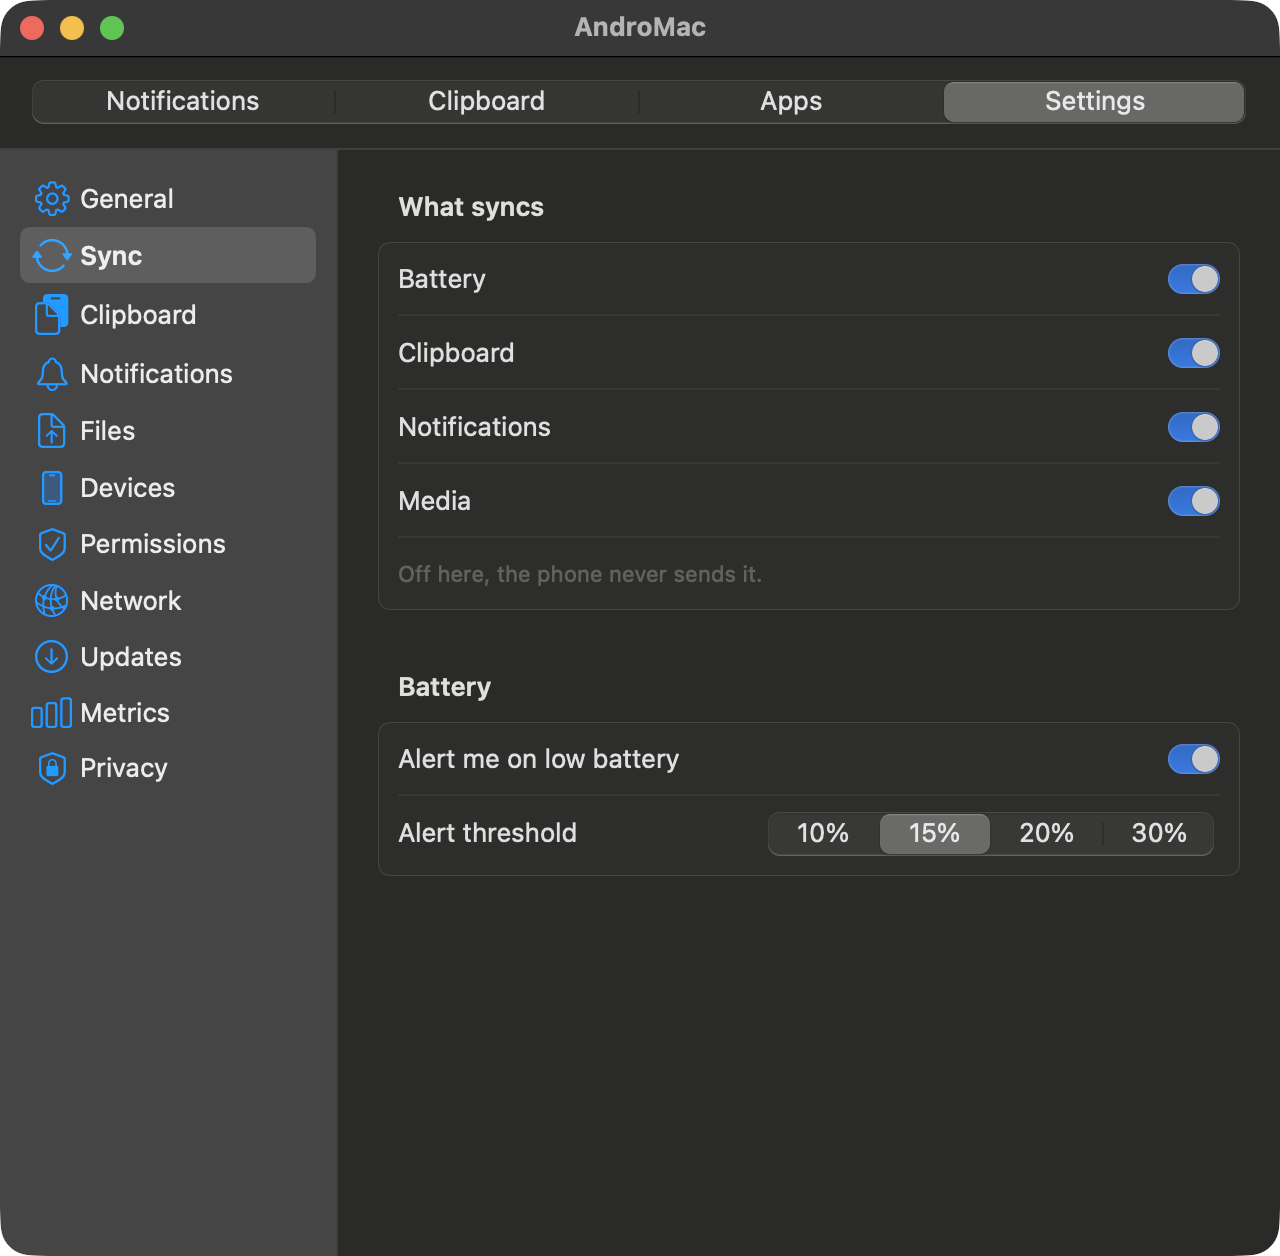
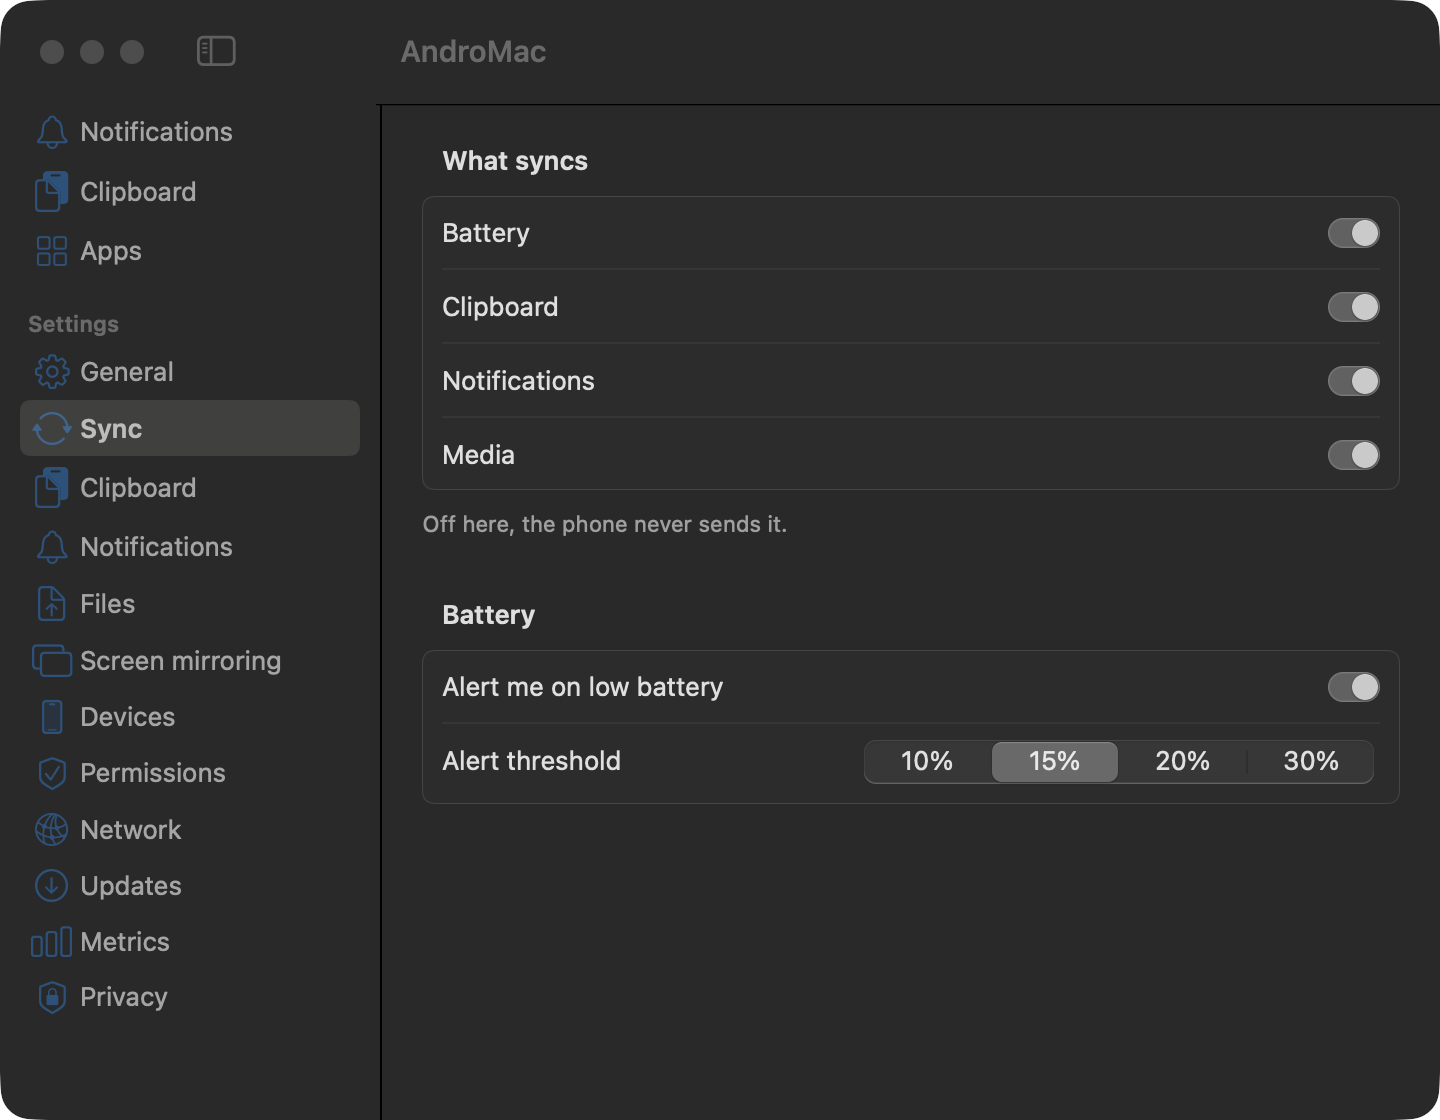
docs: new screenshots, guide and changelog for the UI changes

diff --git a/docs/GUIDE.tr.md b/docs/GUIDE.tr.md
@@ -200,41 +200,51 @@ başka bir yol da yok.
 
 ## Ayarlar
 
-Telefonun ana ekranı sade kalır: bağlantı durumu, **Pil durumu**, **Pano**, **Bildirimler** ve
-**Medya** için dört senkronizasyon anahtarı, **İzinler** kartı, iki ayrıntı satırı ve en altta
-sürüm. İki uygulama da sürümü aynı biçimde yazar: `1.0.0 (12 · abc1234)`, yani sürüm, derleme
-numarası ve derlendiği commit. Hata bildirirken bu satırın tamamını yaz. Gerisi bir alt seviyede.
+Telefonun ana ekranı sade kalır. Durum kartı Mac'in adını söyler: "… ile bağlı", "… ile bağlanılıyor"
+ya da eşleştirilmemişken ağda gördüğü Mac'ler. Altında **Pil durumu**, **Pano**, **Bildirimler**
+ve **Medya** için dört eşitleme anahtarı ve pano geçmişi durur. Bağlantı rehberi yalnızca telefon
+eşleşene kadar görünür; sonra üst çubuktaki **ⓘ** düğmesi onu canlı tanıyla birlikte açar. İzinler
+kartı yalnızca zorunlu bir izin eksikken çıkar. Geri kalan her şey üst çubuktaki **Ayarlar**
+düğmesinin arkasında.
+
+İki uygulama da sürümü aynı biçimde yazar: `1.1.0 (12 · abc1234)`, yani sürüm, derleme numarası ve
+derlendiği commit. Telefonda Ayarlar → Hakkında'da durur. Hata bildirirken bu satırın tamamını yaz.
 
 | Ekran | İçinde ne var |
 |---|---|
-| İzinler | Altı iznin tamamı, "Verildi" ya da "Verilmedi" durumu ve Zorunlu, Önerilir ya da İsteğe bağlı notuyla. Ana ekrandaki İzinler kartının başlığından açılır. |
+| Ayarlar | Bağlantı, Bildirimler, Pano, Dosya aktarımı, İzinler, Dil, Güncellemeler ve Hakkında; her biri tek satırlık bir özetle. |
+| Pano geçmişi | Mac'e giden ya da Mac'ten gelen son 20 metin, en yenisi üstte. Dokununca panoya alınır, gönder düğmesi yeniden gönderir. Yalnızca bellekte tutulur, depolamaya hiç yazılmaz; hassas kayıtlar tutulmaz. |
+| İzinler | Altı iznin tamamı, "Verildi" ya da "Verilmedi" durumu ve Zorunlu, Önerilir ya da İsteğe bağlı notuyla. Ayarlar'dan açılır. |
 | Bağlantı | Durum, Mac'in adı ve son adresi, **Otomatik yeniden bağlan**, **Şimdi bağlan** ve **Bu Mac'i unut**. |
 | Bildirim ayarları | Neyin ayarlı olduğunu özetleyen **Uygulama filtresi**, **Sessiz bildirimler** ve **Sadece telefon kilitliyken**. Her zaman elenenleri de listeler. |
 | Uygulama filtresi | Telefonun gördüğü her uygulama için üç kademeli seçici; Bildirim ayarları'ndan açılır. |
 | Pano ayarları | Gelen: **Panoya otomatik yaz**, **Bildirim göster**. Giden: **Hassas içeriği gönderme**. Bir de **Panoyu Mac'e gönder**. |
-| Bağlantı yardımı | Canlı tanı, sık karşılaşılan sorunlar ve işin nasıl yürüdüğü. Eşleştirme rehberindeki **Bağlanamıyorum**'dan açılır. |
+| Bağlantı yardımı | Canlı tanı, sık karşılaşılan sorunlar ve işin nasıl yürüdüğü. **ⓘ** düğmesinden ya da eşleştirme rehberindeki **Bağlanamıyorum**'dan açılır. |
 | Güncellemeler | Günlük güncelleme denetimi: anahtar, **Şimdi denetle** ve yeni paketi indirip doğrulayarak kuran **Kur** düğmesi. |
 | Dosyalar | **Dosya al** ve **Dosyaları otomatik kabul et**. Gelen dosyalar İndirilenler'e iner; gönderme herhangi bir uygulamanın paylaşım menüsünden yapılır. |
 | Dil | Android'in uygulama başına dil seçicisini açar; İngilizce ve Türkçe sunar. |
 
-Mac'te menü çubuğu paneli göz atmak içindir. En üstte cihaz kartı durur. Birden fazla telefon
-eşliyse kart onları Finder sekmeleri gibi üstte sekmeler hâlinde gösterir; bir sekmeye tıklamak
-hangi telefonun ayrıntılarının, denetimlerinin ve pilinin gösterildiğini değiştirir. Tek telefonda
-sekme yoktur. Kart, seçili telefonun çalan parçasını, ses düzeyi sürgüsünü ve zil modu
-düğmelerini, pano anahtarını, çaldırma düğmesini, test bildirimi düğmesini ve "Bağlantıyı kes"i
-taşır. Altında pil, sonra son pano kaydı, iki yönden birinde dosya giderken bir ilerleme satırı ve
-en son dört bildirim gelir. Durum satırı yalnızca hiç eşleştirme yokken ya da dinleyici kapalıyken
-en üstte çıkar. AndroMac için macOS bildirimleri kapalıysa panel tek satırlık bir uyarı ve ilgili
-Sistem Ayarları bölmesini açan bir düğme gösterir. Panelin üstüne bırakılan dosyalar gönderilir.
-Menü çubuğu simgesine sağ tıklamak AndroMac'i aç, Ayarlar ve Çık menüsünü açar.
-Neyin eşitleneceği bir kez Ayarlar'da kararlaştırılır; ayrıntı pencerede.
+Mac'te menü çubuğu paneli göz atmak içindir. Birden fazla telefon eşliyse üstteki sekmeler
+aralarında geçiş yapar. Telefonun kartı adını ve durumunu, tek bir pil satırını, çalan parçayı, zil
+modu ile ses düzeyini tek satırda gösterir. Altında tek sıra düğme var: telefonu çaldır, test
+bildirimi gönder, ekranı yansıt ve **Panomu buraya gönder**, **Cihaz ayarları…** ile **Bağlantıyı
+kes**'i taşıyan bir **⋯** menüsü. Telefonun adına tıklamak ayarlarını açar. Sonra son pano kaydı
+gelir; yanındaki düğmeler telefondan panoyu ister, Mac'inkini gönderir ya da dosya gönderir.
+Üzerine gelince metnin tamamı görünür, ⌘C kopyalar. Paneli en son dört bildirim kapatır. Dosya
+giderken bir ilerleme satırı, yalnızca hiç eşleştirme yokken ya da dinleyici kapalıyken bir durum
+satırı, AndroMac için macOS bildirimleri kapalıyken de tek satırlık bir uyarı çıkar. Panelin
+üstüne bırakılan dosyalar gönderilir. ⌘, Ayarlar'ı açar; menü çubuğu simgesine sağ tıklamak
+AndroMac'i aç, Ayarlar ve Çık menüsünü açar.
 
-| Sekme | İçinde ne var |
+Pencerenin tek bir kenar çubuğu var: üstte **Bildirimler**, **Pano** ve **Uygulamalar**, altında
+bütün ayar bölümleri.
+
+| Sayfa | İçinde ne var |
 |---|---|
 | Bildirimler | Geçmiş; arama ve temizleme düğmesi. |
 | Pano | Geçmiş; arama, tıklayınca panoya alma, sağ tıkla geri gönderme ya da silme. |
 | Uygulamalar | Telefondaki her uygulama için kademe seçici. |
-| Ayarlar | Kenar çubuğu düzeni: solda bölüm listesi, sağda seçili bölümün seçenekleri. Bölümler sırasıyla Genel, Eşitleme, Pano, Bildirimler, Dosyalar, Ekran yansıtma, Cihazlar, İzinler, Ağ, Güncellemeler, Ölçümler ve Gizlilik. |
+| Ayarlar | Genel, Eşitleme, Pano, Bildirimler, Dosyalar, Ekran yansıtma, Cihazlar, İzinler, Ağ, Güncellemeler, Ölçümler ve Gizlilik. |
 
 Ayarlar → Genel'de **Oturum açınca başlat**, **Menü çubuğunda pil yüzdesi** ve Sistem, İngilizce,
 Türkçe seçenekli bir **Dil** seçici var. Dil açılışta okunduğu için değiştirince bir "Yeniden
@@ -444,7 +454,7 @@ göstermeli. Belirgin biçimde fazlası, kurallardan birinin çiğnendiği anlam
 <td align="center"><img src="images/android-home.png" alt="Android ana ekranı" width="230"></td>
 <td align="center"><img src="images/android-home-dark.png" alt="Android ana ekranı, koyu tema" width="230"></td>
 <td align="center"><img src="images/android-permissions.png" alt="Android'de İzinler ekranı" width="230"></td>
-<td align="center"><img src="images/android-connection.png" alt="Android'de Bağlantı ekranı" width="230"></td>
+<td align="center"><img src="images/android-settings.png" alt="Android'de Ayarlar" width="230"></td>
 </tr>
 <tr>
 <td colspan="2" align="center"><img src="images/android-pairing.png" alt="Android'de eşleştirme kodu" width="230"></td>
@@ -454,13 +464,10 @@ göstermeli. Belirgin biçimde fazlası, kurallardan birinin çiğnendiği anlam
 <td colspan="4" align="center"><img src="images/macos-window.png" alt="macOS'ta AndroMac ana penceresi" width="640"></td>
 </tr>
 <tr>
-<td colspan="4" align="center"><img src="images/macos-settings.png" alt="macOS'ta Ayarlar, Genel" width="640"></td>
+<td colspan="4" align="center"><img src="images/macos-settings.png" alt="macOS'ta Ayarlar, Pano" width="640"></td>
 </tr>
 <tr>
 <td colspan="4" align="center"><img src="images/macos-settings-sync.png" alt="macOS'ta Ayarlar, Eşitleme" width="640"></td>
-</tr>
-<tr>
-<td colspan="4" align="center"><img src="images/macos-settings-permissions.png" alt="macOS'ta Ayarlar, İzinler" width="640"></td>
 </tr>
 </table>
 

diff --git a/docs/GUIDE.md b/docs/GUIDE.md
@@ -201,45 +201,54 @@ nothing, and nothing in the protocol can read its clipboard.
 
 ## Settings
 
-The phone's main screen stays plain: connection status, the **Permissions** card, four sync
-switches for **Battery**, **Clipboard**, **Notifications** and **Media**, two detail lines, and
-the version at the bottom. Both apps write the version the same way, as `1.0.0 (12 · abc1234)`:
-version, build number and the commit it was built from. Quote that whole string in a bug report.
-Everything else is one level down.
+The phone's main screen stays plain. The status card names the Mac: "Connected to …",
+"Connecting to …", or, while unpaired, the Macs it can see. Below it sit the four sync switches
+for **Battery**, **Clipboard**, **Notifications** and **Media**, and the clipboard history. The
+connection guide shows only until the phone is paired; after that the **ⓘ** button in the top
+bar opens it together with the live diagnostics. A permissions card appears only while a required
+permission is missing. Everything else is behind the **Settings** button in the top bar.
+
+Both apps write the version the same way, as `1.1.0 (12 · abc1234)`: version, build number and
+the commit it was built from. It is under Settings → About on the phone. Quote that whole string
+in a bug report.
 
 | Screen | What is on it |
 |---|---|
+| Settings | Connection, Notifications, Clipboard, File transfer, Permissions, Language, Updates and About, each with a one-line summary. |
+| Clipboard history | The last 20 texts sent to or received from the Mac, newest first. Tap to copy, the send button to send again. Kept in memory only and never written to storage; sensitive clips are not recorded. |
 | Permissions | All six permissions, each marked Granted or Not granted, with Required, Recommended or Optional noted. Tapping one opens the matching system screen. |
 | Connection | State, the Mac's name and last address, **Reconnect automatically**, **Connect now**, and **Forget this Mac**. |
 | Notification settings | **App filter** with a summary of what is set, **Silent notifications**, and **Only while the phone is locked**. It also lists what is always filtered out. |
 | App filter | The three-tier picker for every app the phone has seen, reached from Notification settings. |
 | Clipboard settings | Incoming: **Write to the clipboard**, **Show a notification**. Outgoing: **Never send sensitive content**. Plus **Send clipboard to Mac**. |
-| Connection help | Live diagnostics, common problems, and how the whole thing works. Reached through **I can't connect** in the pairing guide. |
+| Connection help | Live diagnostics, common problems, and how the whole thing works. Reached through the **ⓘ** button, or **I can't connect** in the pairing guide. |
 | Updates | The daily update check: switch, **Check now**, and an **Install** button that downloads, verifies and installs the newer build. |
 | Files | **Receive files** and **Accept files automatically**. Received files go to Downloads; sending is done from any app's share sheet. |
 | Language | Opens the Android per-app language picker, which offers English and Turkish. |
 
-On the Mac the menu bar panel is for glancing. It shows, in order, a device card, the last
-clipboard entry, and the four most recent notifications. The card carries the phone's track, its
-volume slider and ringer buttons, its clipboard switch, a ring button, a test-notification button
-and Disconnect, with battery underneath. With more than one phone paired, the card shows them as
-tabs across the top, like Finder tabs, and clicking a tab switches which phone's details,
-controls and battery are shown. With one phone there are no tabs. A progress row sits under the
-clipboard entry while a file is moving in either direction. A status line appears above all of
-it only when nothing is paired yet or the listener is down. While macOS notifications are turned
-off for AndroMac, the panel shows a one-line warning with a button that opens the matching
-System Settings pane. Dropping files onto the panel sends them. Right-clicking the menu bar icon opens a menu with Open AndroMac, Settings and Quit. What syncs is decided once, in
-Settings, and the detail lives in the window.
+On the Mac the menu bar panel is for glancing. With more than one phone paired, tabs across the
+top switch between them. The phone's card shows its name and state, one battery line, the track
+that is playing, and the ringer and volume on one row. Below that is one row of buttons: ring the
+phone, send a test notification, mirror the screen, and a **⋯** menu with **Send my clipboard
+here**, **Device settings…** and **Disconnect**. Clicking the phone's name opens its settings.
+Next comes the last clipboard entry, with buttons to ask the phone for its clipboard, send the
+Mac's, or send a file; hover it to read the whole text, and press ⌘C to copy it. The four most
+recent notifications close the panel. A progress line appears while a file is moving, a status
+line only when nothing is paired or the listener is down, and a one-line warning while macOS
+notifications are off for AndroMac. Dropping files onto the panel sends them. ⌘, opens
+Settings, and right-clicking the menu bar icon opens a menu with Open AndroMac, Settings and Quit.
 
-| Tab | What is on it |
+The window has one sidebar: **Notifications**, **Clipboard** and **Apps** at the top, then every
+settings section.
+
+| Page | What is on it |
 |---|---|
 | Notifications | The history, with search and a clear button. |
 | Clipboard | The history, with search, click to copy, right-click to send back or delete. |
 | Apps | The tier picker for every app on the phone. |
-| Settings | A sidebar with General, Sync, Clipboard, Notifications, Files, Screen mirroring, Devices, Permissions, Network, Updates, Metrics and Privacy. |
+| Settings | General, Sync, Clipboard, Notifications, Files, Screen mirroring, Devices, Permissions, Network, Updates, Metrics and Privacy. |
 
-Settings is a sidebar layout: the sections listed on the left, the chosen section's options on
-the right. General has **Open at login**, **Show battery percentage in the menu bar**, and a
+General has **Open at login**, **Show battery percentage in the menu bar**, and a
 **Language** picker offering System, English and Turkish. Changing the language shows a Restart
 button, because the language is read at launch. Sync holds the four switches for **Battery**,
 **Clipboard**, **Notifications** and **Media**, the low-battery alert switch, and a threshold
@@ -449,7 +458,7 @@ per hour for each connected phone when idle. Noticeably more means one of the ru
 <td align="center"><img src="images/android-home.png" alt="The Android main screen" width="230"></td>
 <td align="center"><img src="images/android-home-dark.png" alt="The Android main screen in dark mode" width="230"></td>
 <td align="center"><img src="images/android-permissions.png" alt="The Permissions screen on Android" width="230"></td>
-<td align="center"><img src="images/android-connection.png" alt="The Connection screen on Android" width="230"></td>
+<td align="center"><img src="images/android-settings.png" alt="Settings on Android" width="230"></td>
 </tr>
 <tr>
 <td colspan="2" align="center"><img src="images/android-pairing.png" alt="The pairing code on Android" width="230"></td>
@@ -459,13 +468,10 @@ per hour for each connected phone when idle. Noticeably more means one of the ru
 <td colspan="4" align="center"><img src="images/macos-window.png" alt="The AndroMac main window on macOS" width="640"></td>
 </tr>
 <tr>
-<td colspan="4" align="center"><img src="images/macos-settings.png" alt="Settings on macOS, General" width="640"></td>
+<td colspan="4" align="center"><img src="images/macos-settings.png" alt="Settings on macOS, Clipboard" width="640"></td>
 </tr>
 <tr>
 <td colspan="4" align="center"><img src="images/macos-settings-sync.png" alt="Settings on macOS, Sync" width="640"></td>
-</tr>
-<tr>
-<td colspan="4" align="center"><img src="images/macos-settings-permissions.png" alt="Settings on macOS, Permissions" width="640"></td>
 </tr>
 </table>
 

diff --git a/CHANGELOG.tr.md b/CHANGELOG.tr.md
@@ -34,6 +34,15 @@ açar.
 
 ### Değişenler
 
+- **Daha sade bir Mac paneli.** Her telefonun pili üç kez yerine bir kez görünüyor, boşluklar
+  daha sıkı, denetimler de geri kalanı bir menüde toplayan tek sıra düğmede. macOS 26 ve sonrasında
+  panel, düğmeler ve pencere Liquid Glass kullanıyor. Pencerede geçmişler ve bütün ayar sayfaları
+  için tek bir kenar çubuğu var, ⌘, Ayarlar'ı açıyor.
+- **Daha sade bir telefon uygulaması.** Ayarlar'ın üst çubuktaki düğmenin arkasında kendi ekranı
+  var. Bağlantı rehberi eşleşince kayboluyor ve bilgi düğmesinin altında bir dokunuş uzakta kalıyor.
+  Durum, bağlı olunan ya da bağlanılan Mac'in adını söylüyor; eşleştirme de telefonun gördüğü
+  Mac'leri gösteriyor. Yeni pano geçmişi gönderilen ya da gelen son 20 metni listeliyor ve yalnızca
+  bellekte tutuyor.
 - **Pile daha hafif.** Telefon Mac'i yalnızca Wi-Fi ya da Ethernet'te ve yalnızca onu son bulduğu
   ağda arıyor. Mac uyurken sessiz kalıyor, ekran kapalıyken pil güncellemelerini bekletiyor, tekrar
   eden bildirimleri atlıyor ve ekran kapalıyken gelen pano isteklerini yok sayıyor. Mac de

diff --git a/CHANGELOG.md b/CHANGELOG.md
@@ -34,6 +34,15 @@ version gets a new section.
 
 ### Changed
 
+- **A cleaner Mac panel.** Each phone's battery shows once instead of three times, spacing is
+  tighter, and the controls sit in one row of buttons with a menu for the rest. On macOS 26 and
+  later the panel, buttons and window use Liquid Glass. The window has a single sidebar for the
+  histories and every settings page, and ⌘, opens Settings.
+- **A simpler phone app.** Settings has its own screen behind the button in the top bar. The
+  connection guide disappears once you are paired and stays one tap away under the info button.
+  The status names the Mac you are connected or connecting to, and pairing shows the Macs the
+  phone can see. A new clipboard history lists the last 20 texts sent or received, kept in memory
+  only.
 - **Easier on the battery.** The phone looks for the Mac only on Wi-Fi or Ethernet, and only on
   the network where it last found it. It goes quiet while the Mac sleeps, holds battery updates
   while the screen is off, skips repeated notifications, and ignores clipboard requests with the
